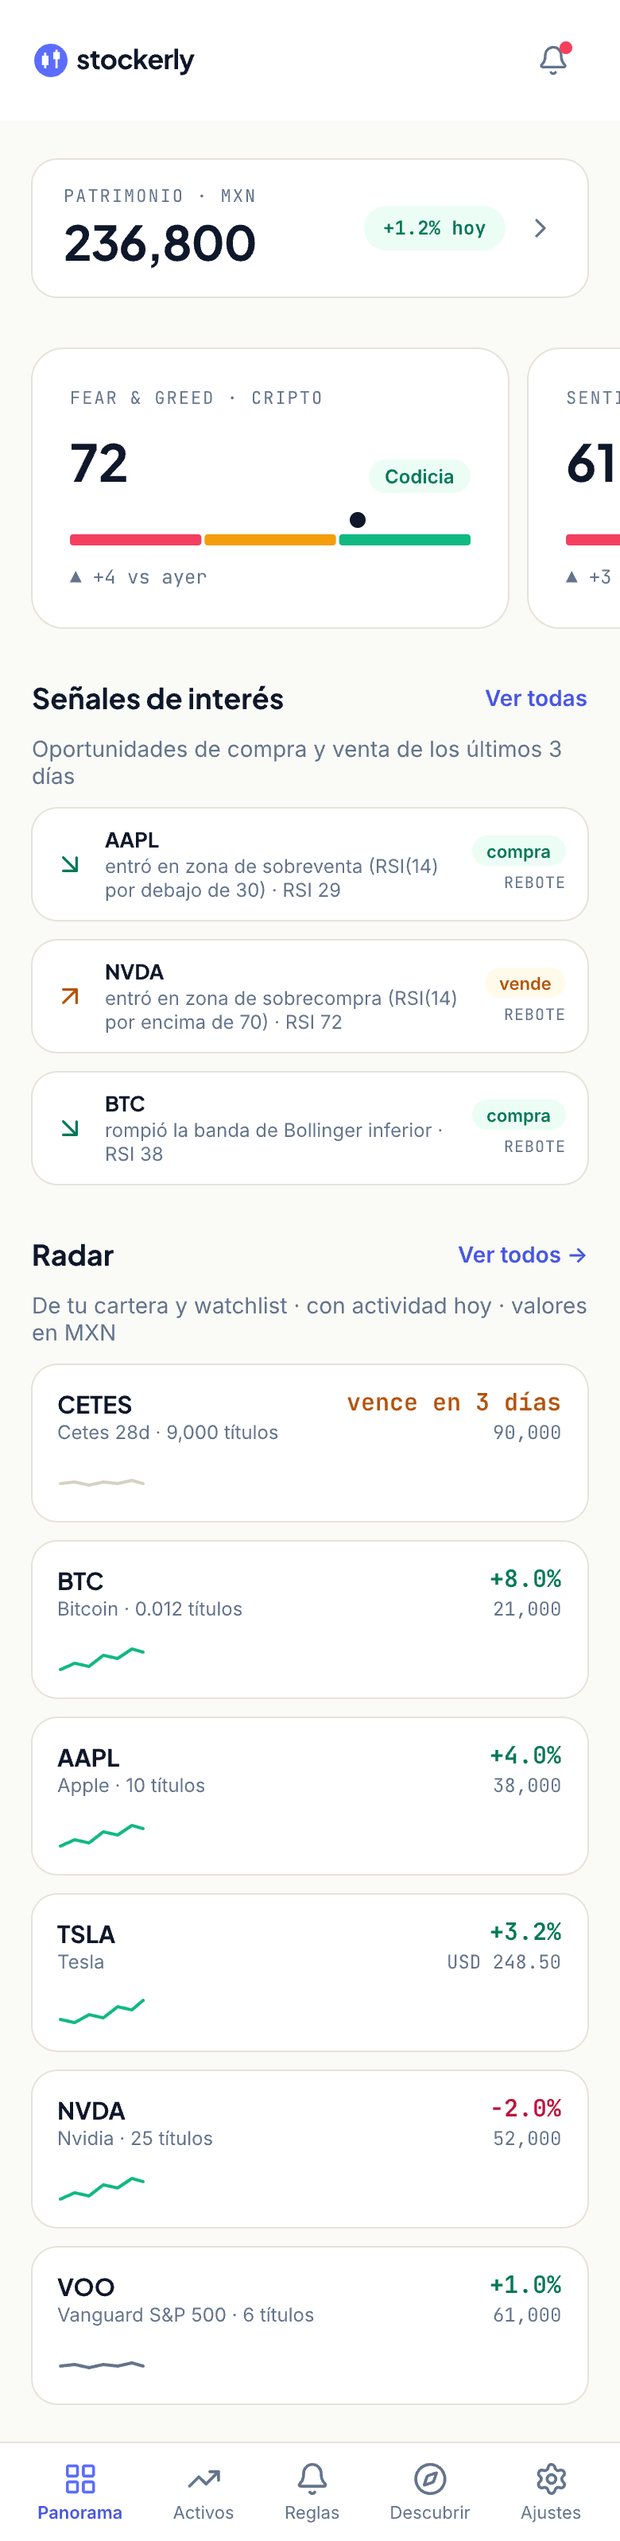
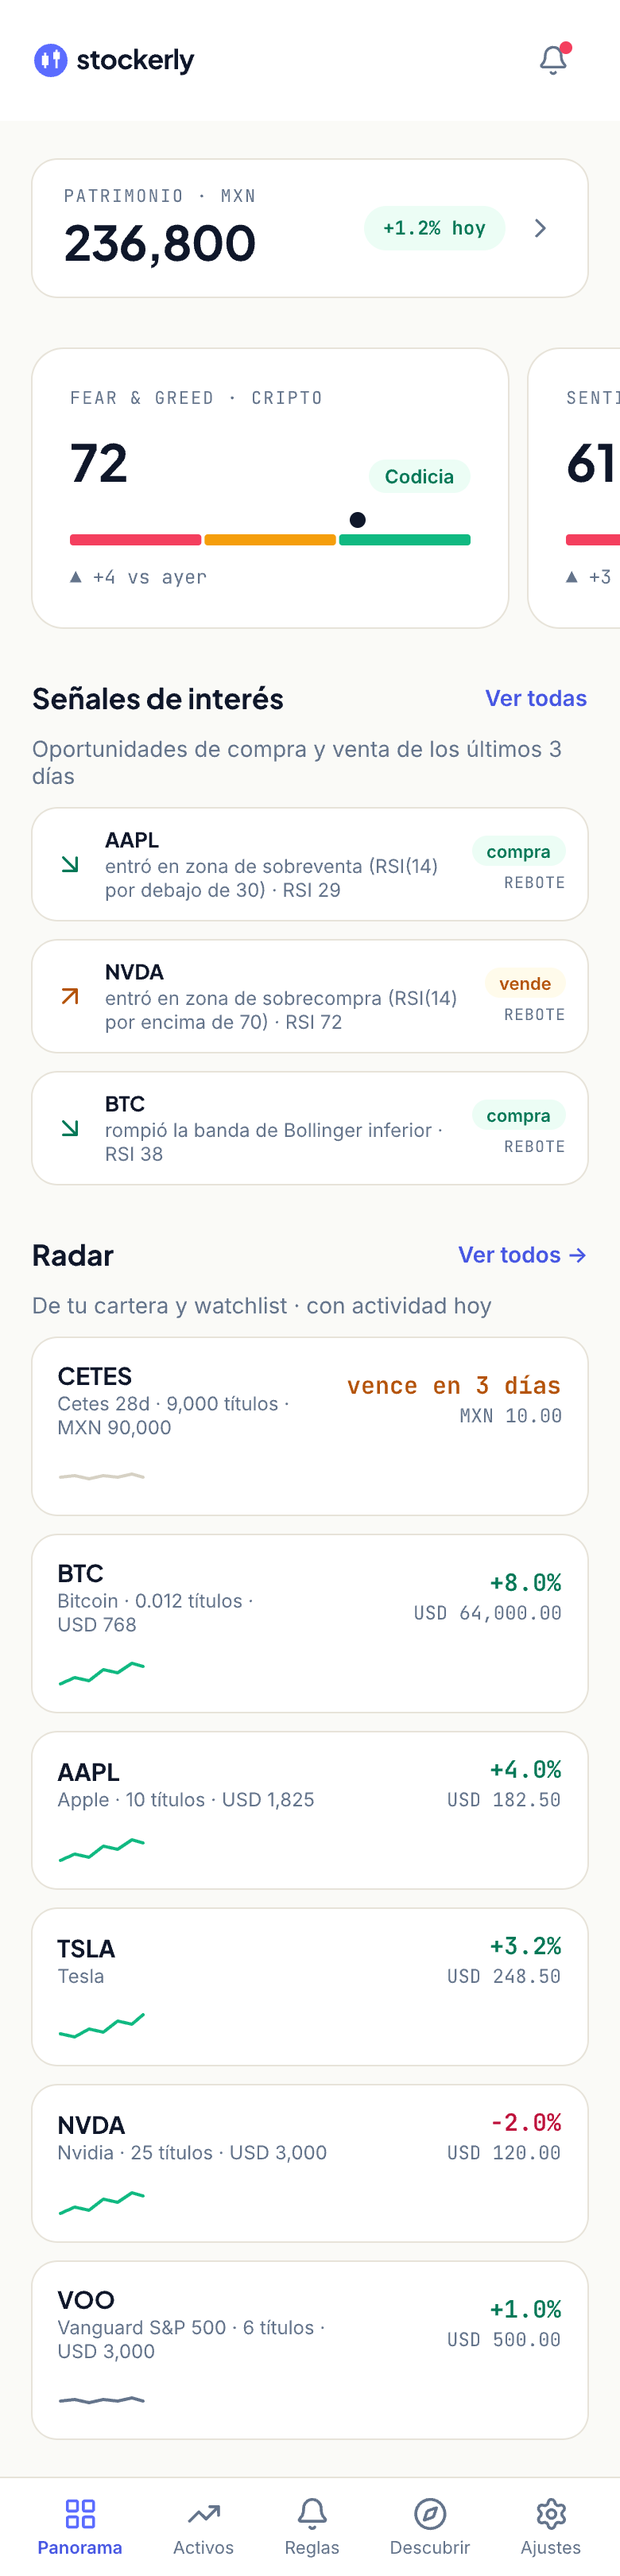
fix(dashboard): quote the unit price on every radar row

diff --git a/spec/requests/panorama_spec.rb b/spec/requests/panorama_spec.rb
@@ -181,14 +181,25 @@ RSpec.describe "Panorama", type: :request do
 
     # D69: the Radar asks what needs attention today, and both row kinds answer
     # it with the movement — so the movement takes the primary slot on both.
-    it "leads a holding with the day's move and demotes what it is worth" do
+    it "leads a holding with the day's move and demotes the unit quote" do
       asset = with_day_change(mxn_asset(symbol: "WALMEX", current_price: 70), 1.5)
       create(:position, portfolio: portfolio, asset: asset, shares: 100, avg_cost: 60, status: :open)
 
       get dashboard_path
 
       expect(response.body).to match(%r{text-sm font-bold text-positive">\s*\+1\.5%\s*</p>})
-      expect(response.body).to match(%r{text-xs text-fg-subtle">\s*MXN 7,000\s*</p>})
+      expect(response.body).to match(%r{text-xs text-fg-subtle">\s*MXN 70\.00\s*</p>})
+    end
+
+    it "states what a holding is worth in its subtitle, not in the quote slot" do
+      asset = with_day_change(mxn_asset(symbol: "WALMEX", current_price: 70), 1.5)
+      create(:position, portfolio: portfolio, asset: asset, shares: 100, avg_cost: 60, status: :open)
+
+      get dashboard_path
+      radar = response.body.split(I18n.t("dashboard.show.radar_titulo")).last
+
+      expect(radar).to match(/100 títulos · MXN 7,000/)
+      expect(radar).not_to match(%r{text-xs text-fg-subtle">\s*MXN 7,000\s*</p>})
     end
 
     # D141: the radar mixes a converted market value with an unconverted unit
@@ -205,7 +216,7 @@ RSpec.describe "Panorama", type: :request do
       expect(I18n.t("dashboard.show.radar_subtitulo")).not_to include("MXN")
     end
 
-    it "prefixes a holding's value in the radar the way its watchlist neighbour is prefixed" do
+    it "quotes a holding in the radar the way its watchlist neighbour is quoted" do
       held = with_day_change(mxn_asset(symbol: "WALMEX", current_price: 70), 1.5)
       create(:position, portfolio: portfolio, asset: held, shares: 100, avg_cost: 60, status: :open)
       watched = with_day_change(create(:asset, :stock, symbol: "AAPL", currency: "USD",
@@ -215,7 +226,7 @@ RSpec.describe "Panorama", type: :request do
       get dashboard_path
       radar = response.body.split(I18n.t("dashboard.show.radar_titulo")).last
 
-      expect(radar).to match(%r{text-xs text-fg-subtle">\s*MXN 7,000\s*</p>})
+      expect(radar).to match(%r{text-xs text-fg-subtle">\s*MXN 70\.00\s*</p>})
       expect(radar).to match(%r{text-xs text-fg-subtle">\s*USD 182\.50\s*</p>})
     end
 

diff --git a/design/DECISIONS.md b/design/DECISIONS.md
@@ -203,6 +203,7 @@ reverses opens with `⤷` and the number that replaced it.
 | **D151** | Whether the first-boot catalogue carries MX-first (ON-10) | Leave it · **Rebalance the catalogue** · Change only `DEFAULT_SELECTED` · Split the picker by market | ✅ **Accepted — Adrian's call, 2026-09-22, option 2.** `Administration::Domain::AssetCatalog` gains BMV issuers (WALMEX, FEMSA, GMEXICO, CEMEX, AMX and peers) and loses part of the US long tail, so the picker stops being 25 US instruments against 2 Mexican equities, one of which (`IVVPESO.MX`) tracks the S&P. **Three consequences option 2 does not itself settle, each needing a call before the work lands:** (a) `DEFAULT_SELECTED` is `%w[AAPL MSFT GOOGL NVDA BTC ETH SPY]` — seven, zero Mexican — and rebalancing the *offer* does not change the *default*, so a fresh instance still opens on a US portfolio unless the list changes too; (b) `AssetCatalog.logo_url_for` returns `nil` for `country == "MX"`, so every added BMV row renders without a logo beside US rows that have one; (c) **DS-08 does not travel with this** — `BasketCatalogue.baseline` is still SPY for every wave on `/discover`, `EWW · México` included, and the entry framing this question said the two should be decided together or explicitly not. |
 | **D152** | What the product's one desktop-exclusive surface is for (AU-06) | Give it content only Stockerly can write · **Shrink the card to the form** · Keep the void deliberately and record it | ✅ **Accepted — Adrian's call, 2026-09-22, option 2.** `layouts/auth.html.erb` drops the `<aside>` and `lg:grid-cols-2`, and the card becomes one centred column. The product then has **no** desktop-exclusive surface at all, which is the honest end state of thesis B rather than an omission. **One consequence that arrived after the option was written:** the `<aside>` is now the last renderer of `auth.open_source` in the auth zone — `setup/new.html.erb`'s copy was deleted in #738 (AU-03), on the reasoning that the panel was the general case. Deleting the panel removes the tagline from every auth screen, leaving `layouts/maintenance.html.erb` as its only consumer. Whether the line survives somewhere in the single column is **open and Adrian's**. |
 | **D153** | Descubrir's waves can be up to 24 h old and the screen says nothing (#803) | Always show the age · **Show it only past 6 h** · Never show it | ✅ **Accepted — Adrian's call, 2026-10-02.** `WarmDiscoverJob` runs every 4 h and writes with a 24 h TTL, so under 6 h the waves are the normal cadence and an age would be noise; past it the job has missed a run and the reader should not take the ranking as current. The age sits in the header's meta line beside the window, in whole hours, and nothing renders when the cache carries no `generated_at`. |
+| **D154** | The radar's secondary slot meant two things: a holding's market value, a watchlist row's unit price | Keep D141's split · **Both row kinds quote the unit price; a holding's value moves to its subtitle beside the share count** · Convert everything to one currency | ✅ **Accepted — Adrian's call, 2026-10-02, after reading the live screen: "no me queda claro el precio actual de los stocks, solo me muestras lo que yo tengo invertido".** Supersedes the slot assignment in **D141** (its subtitle and ISO-prefix rulings stand). D141 judged by the data model — a watchlist row has no shares, so the two quantities could not match — and accepted the mismatch. Reading the screen settles it the other way: a column that reads `USD 113` on one row and `USD 371.98` on the next gives no way to tell a value from a price, and the radar's question is where the asset is now. The holding's value is not dropped, it moves next to its shares (`0.7192 títulos · USD 113`). Activos is untouched: there the value leads and D10's declared currency still applies. `cockpit.pen`'s two Panorama artboards (mobile and desktop) are redrawn to match, and the Radar subtitle there drops its stale `· valores en MXN` clause. |
 
 ## Open product questions — answered 2026-09-22
 
